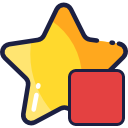
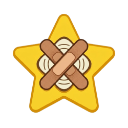
prepare publish

diff --git a/options.html b/options.html
@@ -7,38 +7,37 @@
 <body>
     <div class="wrapper">
         <div class="toggle-item">
-            <span class="txt">Blur <strong>Goodreads</strong> ratings</span>
+            <span class="txt">Goodreads</span>
             <div id="goodreads_toggle" class="toggle"></div>
         </div>
         <div class="toggle-item">
-            <span class="txt">Blur <strong>IMDB</strong> ratings</span>
+            <span class="txt">IMDB</span>
             <div id="imdb_toggle" class="toggle"></div>
         </div>
         <div class="toggle-item">
-            <span class="txt">Blur <strong>MyAnimeList</strong> ratings</span>
-            <small class="hint">Partial support!</small>
+            <span class="txt">MyAnimeList</span>
             <div id="mal_toggle" class="toggle"></div>
         </div>
         <div class="toggle-item">
-            <span class="txt">Blur <strong>Letterboxd</strong> ratings</span>
+            <span class="txt">Letterboxd</span>
             <div id="letterboxd_toggle" class="toggle"></div>
         </div>
         <div class="toggle-item">
-            <span class="txt">Blur <strong>Google Search</strong> ratings</span>
+            <span class="txt">Google Search</span>
             <div id="google_toggle" class="toggle"></div>
         </div>
         <div class="toggle-item">
-            <span class="txt">Blur <strong>Trakt</strong> ratings</span>
+            <span class="txt">Trakt</span>
             <div id="trakt_toggle" class="toggle"></div>
         </div>
         <div class="toggle-item">
-            <span class="txt">Blur <strong>AniList</strong> ratings</span>
+            <span class="txt">AniList</span>
             <div id="anilist_toggle" class="toggle"></div>
         </div>
 
         <div id="status_box" class="alert absolute success hidden">Successfully saved options!</div>
 
-        <footer class="credits">v2.4.0 | <a href="https://github.com/ganigeorgiev/hide-ratings-extension" target="_blank">GitHub</a></footer>
+        <footer class="credits"><span id="version"></span> | <a href="https://github.com/kasusoba/hide-ratings" target="_blank">GitHub</a></footer>
     </div>
     <script src="js/options.js"></script>
 </body>

diff --git a/js/options.js b/js/options.js
@@ -70,5 +70,9 @@
         }, false);
     }
 
-    document.addEventListener('DOMContentLoaded', restoreToggleValues);
+    document.addEventListener('DOMContentLoaded', function () {
+        restoreToggleValues();
+        const version = chrome.runtime.getManifest().version;
+        document.getElementById('version').textContent = 'v' + version;
+    });
 })();

diff --git a/README.md b/README.md
@@ -1,13 +1,16 @@
-Hide ratings
-======================================================================
+# Hide Ratings
 
-Simple extension to blur the ratings from **IMDB**, **Goodreads**, **MyAnimeList**, **Letterboxd**, **Google Search**, **Trakt**, and **AniList** — on search results, lists, and detail pages. Hover over a blurred rating to reveal it.
+[![Available in the Chrome Web Store](https://storage.googleapis.com/web-dev-uploads/image/WlD8wC6g8khYWPJUsQceQkhXSlv1/UV4C4ybeBTsZt43U4xis.png)](https://github.com/kasusoba/hide-ratings)
 
-#### Installation
+Hides ratings on search results, lists, and detail pages. Hover over a hidden rating to reveal it.
 
-- Via [Chrome Web Store](https://chrome.google.com/webstore/detail/hide-ratings-imdb-goodrea/cnjhjnjbpedipoamajojlbfakbadgiam)
+Supported Sites:
+- IMDB
+- Goodreads
+- MyAnimeList
+- Letterboxd
+- Google Search
+- Trakt
+- AniList
 
-- Manually:
-  1. Download and extract the project archive.
-  2. Open your browser and navigate to `chrome://extensions`
-  3. Check the `Developer mode` checkbox and click on `Load unpacked extension...` button
+> Forked from [ganigeorgiev/hide-ratings-extension](https://github.com/ganigeorgiev/hide-ratings-extension) with modifications.